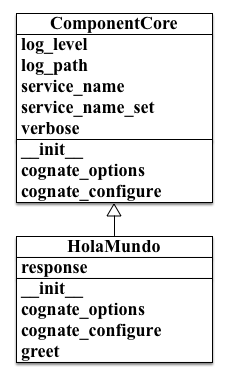
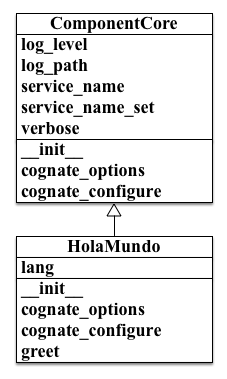
Updated documentation.

Changed region(s): [[0.0925, 0.6675, 0.4009, 0.7256]]

diff --git a/cognate/component_core.py b/cognate/component_core.py
@@ -6,7 +6,7 @@ import logging
 from logging.handlers import WatchedFileHandler
 import os
 import shlex
-
+import sys
 
 class ComponentCore(object):
     """The *ComponentCore* class provides configuration services for components.
@@ -15,7 +15,8 @@ class ComponentCore(object):
 
     *ComponentCore* supports the following command line options::
 
-        usage:  [-h] [--service_name SERVICE_NAME] [--log_level {debug,info,warn,error}]
+        usage:  [-h] [--service_name SERVICE_NAME]
+                [--log_level {debug,info,warn,error}]
                 [--log_path LOG_PATH] [--verbose]
 
         optional arguments:
@@ -177,10 +178,10 @@ class ComponentCore(object):
         arg_parser.add_argument('--log_path',
                                 default=self.log_path,
                                 help='Set the path for log output. The default '
-                                     'file created is "<log_path>/<service_name>'
-                                     '.log". If the path ends with a ".log" '
-                                     'extension, then the path be a target '
-                                     'file.')
+                                     'file created is '
+                                     '"<log_path>/<service_name>.log". If the '
+                                     'path ends with a ".log" extension, then '
+                                     'the path be a target file.')
         arg_parser.add_argument('--verbose',
                                 action='store_true',
                                 default=self.verbose,
@@ -235,7 +236,8 @@ class ComponentCore(object):
         if self.log_path:
             file_path = self.log_path
             if not self.log_path.endswith('.log'):
-                file_path = os.path.join(self.log_path, self.service_name + '.log')
+                file_path = os.path.join(self.log_path,
+                                         self.service_name + '.log')
 
             file_handler = WatchedFileHandler(file_path)
             file_handler.setLevel(self.log_level)
@@ -277,7 +279,11 @@ class ComponentCore(object):
         if argv is None:
             argv = []  # just create an empty arg list
 
-        # if this is the command line args directly passed, then we need to
+        # ensure that sys.argv is not modified in case it was passed.
+        if argv is sys.argv:
+            argv = list(sys.argv)
+
+        # If this is the command line args directly passed, then we need to
         # remove the first argument which is the python execution command.
         # The first argument is the name of the executing python script.
         if len(argv) > 0 and argv[0].endswith('.py'):

diff --git a/example/hola_mundo.py b/example/hola_mundo.py
@@ -29,12 +29,14 @@ class HolaMundo(ComponentCore):
                                 help='Set the language for the salutation.')
 
     def cognate_configure(self, args):
-        if args.lang not in self.lang_choices:
+        if self.lang not in self.lang_choices:
             msg = '"lang" value of %s not allowed.' % args.lang
             self.log.error(msg)
             raise ValueError(msg)
 
     def greet(self, name='Mundo'):
+        if not name:
+            name = 'Mundo'
         salutation = self.salutation_map[self.lang]
         greeting = salutation + ' ' + name
         self.log.debug('Greeting: %s', greeting)
@@ -46,8 +48,8 @@ if __name__ == '__main__':
     service = HolaMundo(argv=argv)
 
     while (True):
-        name = raw_input('Enter name (No input exits):')
-        if not name:
+        name = raw_input('Enter name ("quit" exits):')
+        if name == 'quit':
             break
 
         greeting = service.greet(name)

diff --git a/doc/cognate.rst b/doc/cognate.rst
@@ -20,16 +20,36 @@ To get up and running the following topics will be covered:
 
     - :ref:`dynamic_service_naming`
 
-The intent is for *ComponentCore* to make your life easier in the implementation
+The intent is for *ComponentCore* to make life easier in the implementation
 of stand alone applications. The hope is to take some common service
 requirements and make the expression of those requirements trivial.
 
-To begin, an example implementation of
+This guide will demonstrate utilizing the *ComponentCore* class to implement
+a service component in :ref:`hola_mundo_service`. The example service will be
+used to explain the configuration and logging features of *Cognate*.
 
-.. _hola_mundo_class:
+.. _hola_mundo_service:
 
-Hola Mundo Example Class
-=========================
+Hola Mundo Demo Service
+========================
+
+The *HolaMundo* example is a service that will print out a salutation,
+such as "Hola Mundo". *HolaMundo* will allow for configuring the language
+translations of 'Hola' as the exclamation of the salutation. Language
+configuration should be per *HolaMundo* service instance. The default language
+setting will be Spanish. *HolaMundo* should allow for dynamically setting of
+the target of the salutation, with the default being `Mundo`.
+
+Another requirement for the *HolaMundo* service, is that it should be easy to
+execute as a runnable service, and also be usable as a component to create
+more complex services.
+
+The *HolaMundo* service is defined by the ``HolaMundo`` class,
+which is listed below. The source for ``HolaMundo`` can also be found at
+*'example/hola_mundo.py'* of the `Cognate source`_ afterwards explanation of
+key features will be covered.
+
+.. _Cognate source: https://github.com/neoinsanity/cognate/tree/master
 
 .. code-block:: python
     :linenos:
@@ -63,12 +83,14 @@ Hola Mundo Example Class
                                     help='Set the language for the salutation.')
 
         def cognate_configure(self, args):
-            if args.lang not in self.lang_choices:
+            if self.lang not in self.lang_choices:
                 msg = '"lang" value of %s not allowed.' % args.lang
                 self.log.error(msg)
                 raise ValueError(msg)
 
         def greet(self, name='Mundo'):
+            if not name:
+                name = 'Mundo'
             salutation = self.salutation_map[self.lang]
             greeting = salutation + ' ' + name
             self.log.debug('Greeting: %s', greeting)
@@ -80,12 +102,27 @@ Hola Mundo Example Class
         service = HolaMundo(argv=argv)
 
         while (True):
-            name = raw_input('Enter name (No input exits):')
-            if not name:
+            name = raw_input('Enter name ("quit" exits):')
+            if name == 'quit':
                 break
 
             greeting = service.greet(name)
             print greeting
+
+The ``HolaMundo`` class ``lang`` attribute is used to control the language
+option of the service. The ``salutation_map`` and ``lang_choices`` class
+attributes manage the languages supported. The ``greet`` method will return a
+greeting with the configured language exclamation and the target name.
+
+Running the ``hola_mundo`` package will
+
+The *HolaMundo* service can be executed with the command
+``python example/hola_mundo``
+
+.. _configuration_management_and_initialization:
+
+Configuration Management and Initialization
+=============================================
 
 This gives the class hierarchy as in the image below.
 
@@ -106,14 +143,9 @@ use of the
 This effectively calls the *cognate_options* and *cognate_configure* methods
 on all primary base classes that derive from *ComponentCore*.
 
-.. _configuration_management_and_initialization:
-
-Configuration Management and Initialization
-=============================================
-
 *ComponentCore* helps out with configuration management and initialization of
 runtime services. it does this by creating a configuration loop. Utilizing the
-:ref:`hola_mundo_class` as an example.
+:ref:`hola_mundo_service` as an example.
 
 .. _command_line_option_construction:
 
